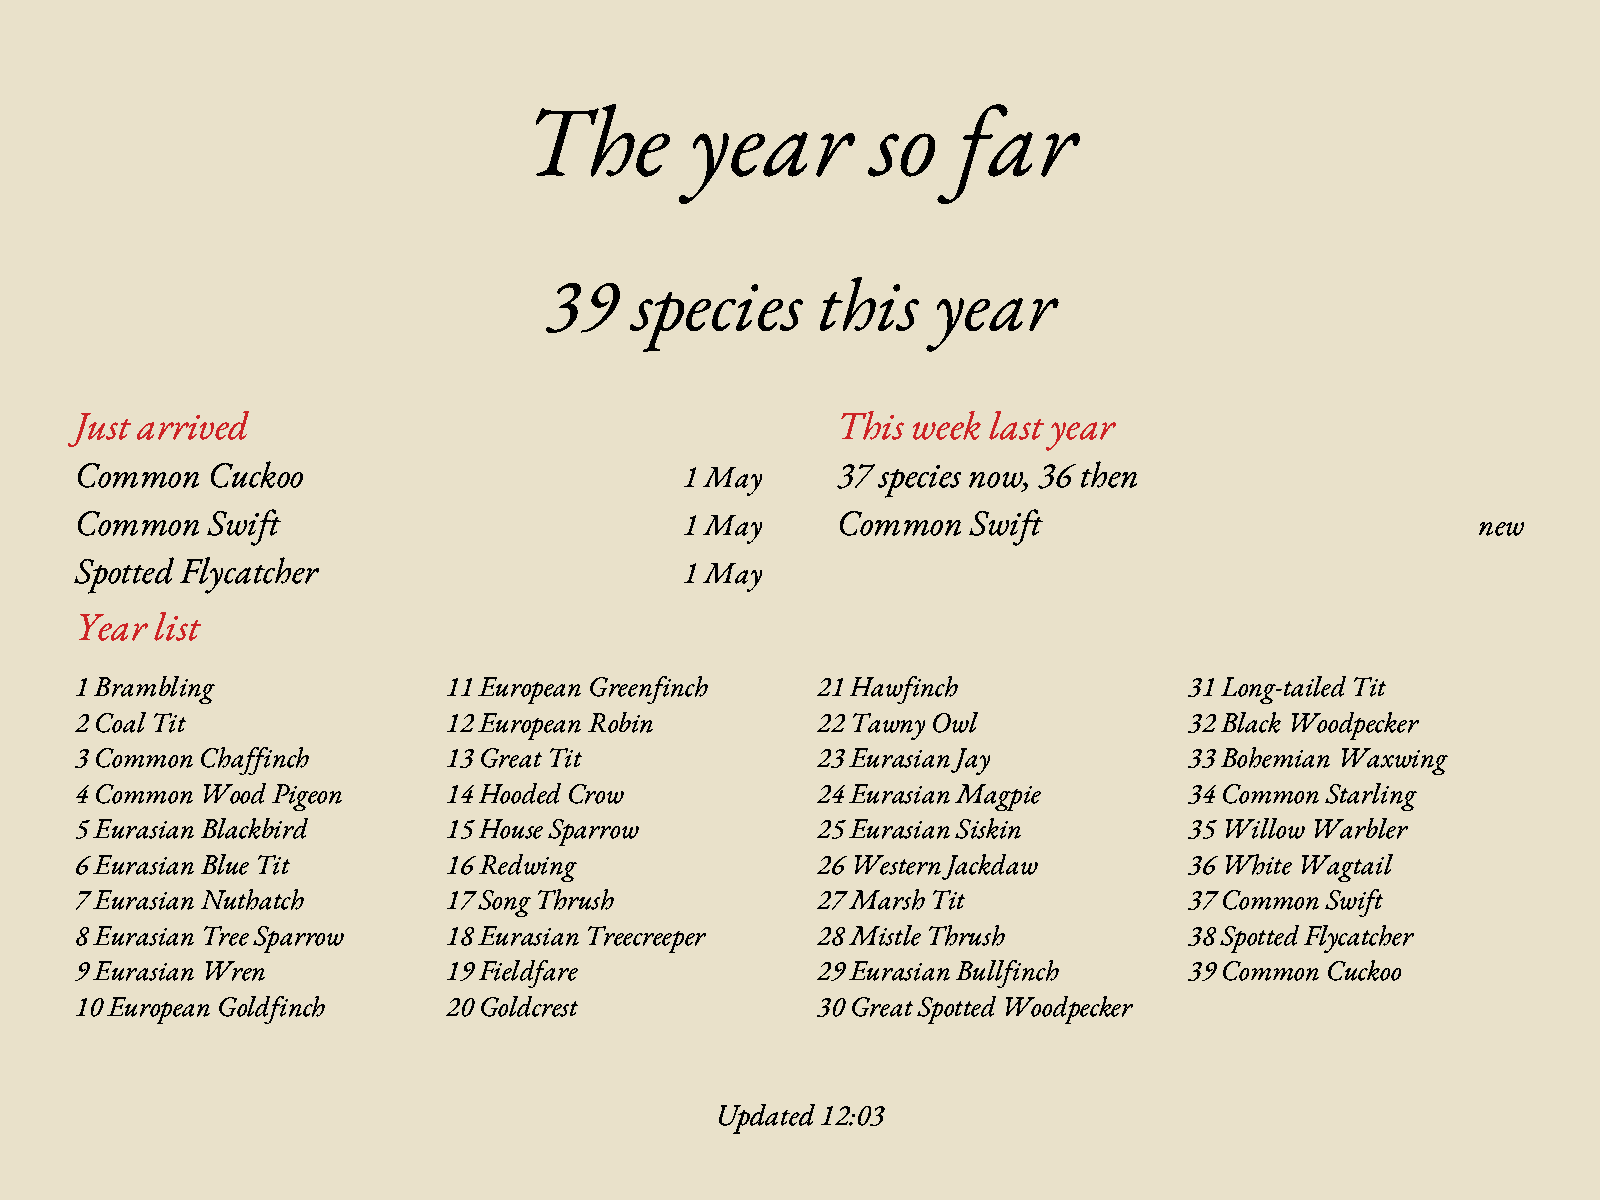
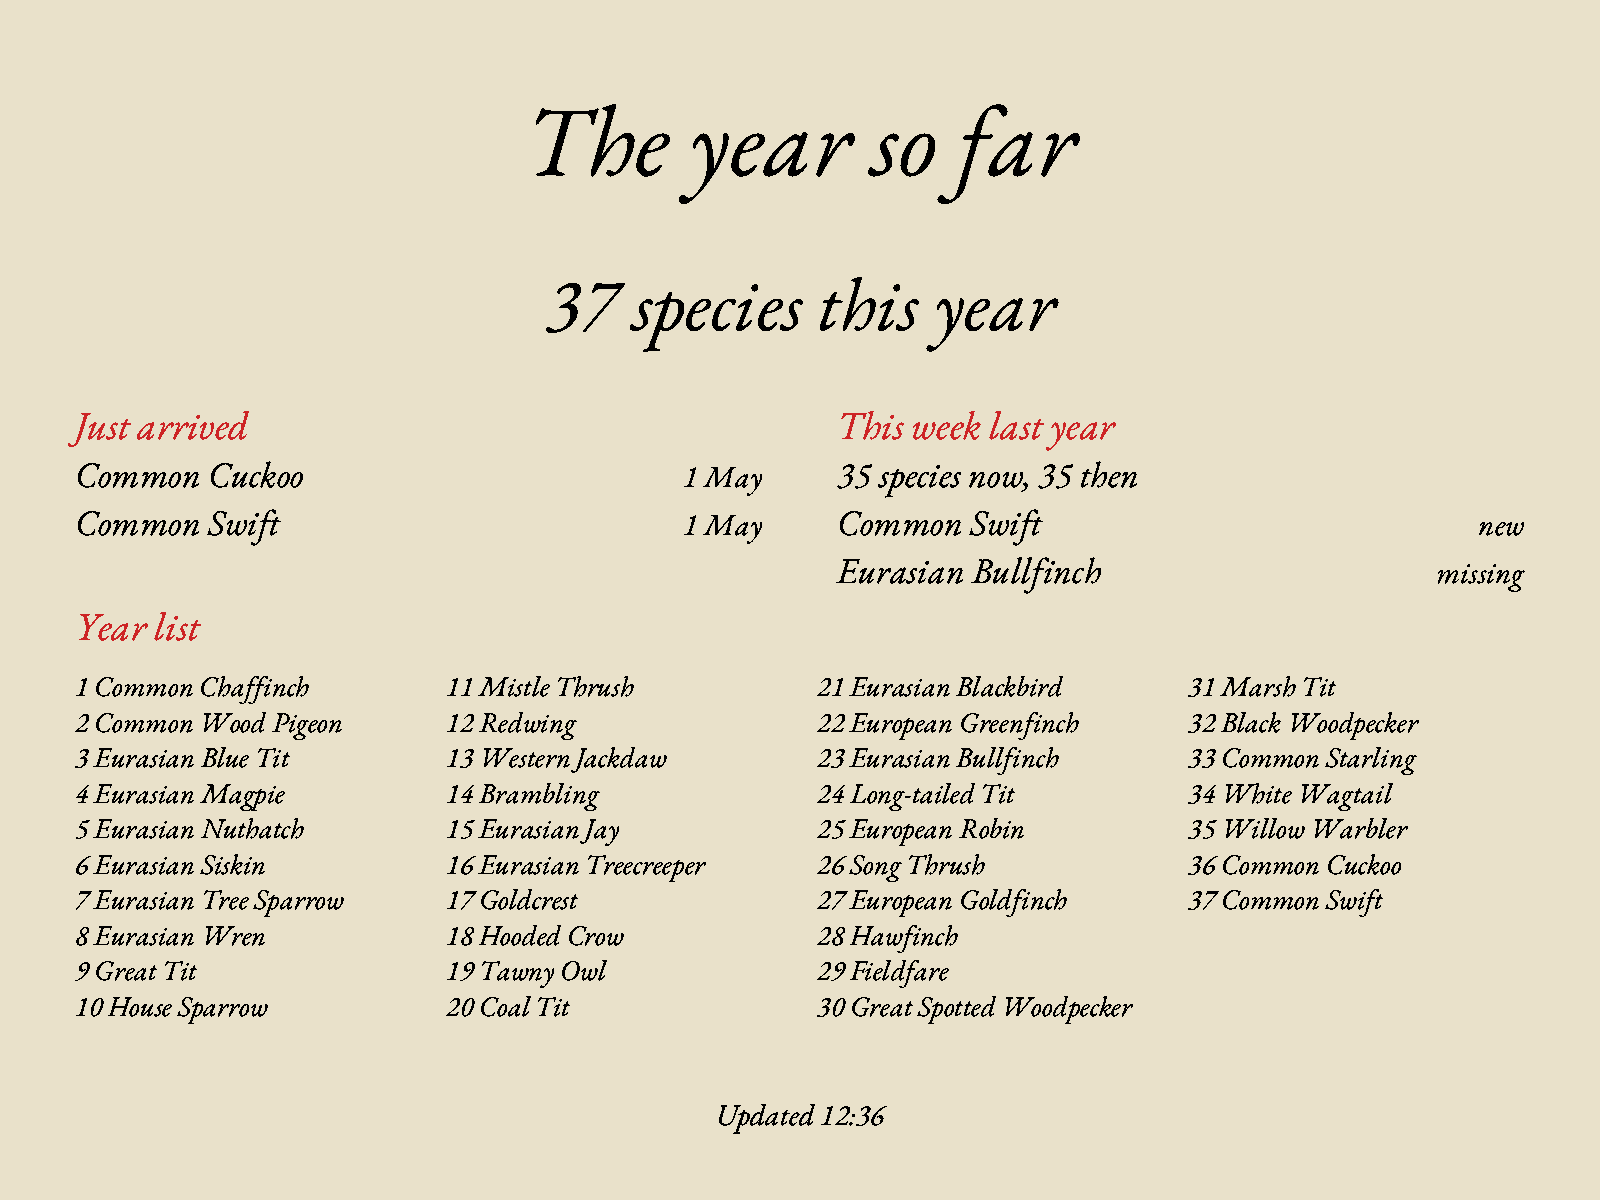
Engrave the story chart like the plates, and redraw the docs' pages
The day's chart drops the dashboard look: hairline rules and a ruled left
margin, bars outlined and hatched with upright lines like an engraver's
shading (closest for the whole chorus, red only for a bird new for the
year), dotted sunrise and sunset lines, and small ticks under the hours.
Every page in docs/images is drawn again with fugleramme's classic
plates; the generated-bird collage is gone.

Claude-Session: https://claude.ai/code/session_01JrPyactsUqTx6YH7aVCGwN

diff --git a/crates/frame-layout/src/story_page.rs b/crates/frame-layout/src/story_page.rs
@@ -23,8 +23,10 @@ pub struct ChorusRow {
     pub label: String,
     /// Detections in each local hour, index 0 for midnight to one.
     pub hours: [u32; 24],
-    /// The ink the row's bars are drawn in.
+    /// The ink the row's bars are engraved in.
     pub ink: Ink,
+    /// Whether the bars are hatched close, darker, as for the whole chorus.
+    pub heavy: bool,
 }
 
 /// A moment marked across the chart, such as sunrise.
@@ -147,7 +149,16 @@ fn push_chart(page: &mut PageLayout, body: &Body, options: &StoryOptions) {
     let chart_width: i32 = body.width - body.margin - chart_left;
     let column: f32 = chart_width as f32 / hours as f32;
     let bar: i32 = ((column * 0.72) as i32).max(2);
-    let rule: i32 = (row_height / 40).max(2);
+    // Hairlines, as an engraver's: thicker only on big pages, so they survive dithering.
+    let hair: i32 = ((body.heading_size / 45.0) as i32).max(1);
+    // The left edge of the chart, like the ruled margin of a table in an old natural history.
+    page.shapes.push(ShapeBlock {
+        x: chart_left - hair * 3,
+        y: chart_top,
+        width: hair,
+        height: rows * row_height,
+        ink: Ink::Black,
+    });
 
     for (index, row) in shown.iter().enumerate() {
         let index: i32 = i32::try_from(index).unwrap_or(0);
@@ -162,10 +173,10 @@ fn push_chart(page: &mut PageLayout, body: &Body, options: &StoryOptions) {
             style: TextStyle::Name,
         });
         page.shapes.push(ShapeBlock {
-            x: chart_left,
+            x: chart_left - hair * 3,
             y: baseline,
-            width: chart_width,
-            height: rule,
+            width: chart_width + hair * 3,
+            height: hair,
             ink: Ink::Black,
         });
         let loudest: u32 = row.hours.iter().copied().max().unwrap_or(0).max(1);
@@ -177,16 +188,17 @@ fn push_chart(page: &mut PageLayout, body: &Body, options: &StoryOptions) {
             let height: i32 = (i64::from(tallest) * i64::from(count) / i64::from(loudest))
                 .try_into()
                 .unwrap_or(tallest)
-                .max(rule * 2);
+                .max(hair * 3);
             let left: i32 =
                 chart_left + (offset as f32 * column + (column - bar as f32) / 2.0) as i32;
-            page.shapes.push(ShapeBlock {
+            let bar_box = ShapeBlock {
                 x: left,
                 y: baseline - height,
                 width: bar,
                 height,
                 ink: row.ink,
-            });
+            };
+            push_engraved(&mut page.shapes, bar_box, hair, row.heavy);
         }
     }
 
@@ -197,17 +209,18 @@ fn push_chart(page: &mut PageLayout, body: &Body, options: &StoryOptions) {
             continue;
         }
         let x: i32 = chart_left + (hour * column) as i32;
-        let dash: i32 = (row_height / 6).max(6);
+        // A dotted hairline, as engravers marked a reference line.
+        let dot: i32 = hair * 2;
         let mut y: i32 = chart_top;
         while y < chart_end {
             page.shapes.push(ShapeBlock {
-                x: x - rule / 2,
+                x: x - hair / 2,
                 y,
-                width: rule,
-                height: dash.min(chart_end - y),
-                ink: Ink::Blue,
+                width: hair,
+                height: dot.min(chart_end - y),
+                ink: Ink::Black,
             });
-            y += dash * 2;
+            y += dot * 3;
         }
         // Centred over its line, unless that would run off the page.
         let half: i32 =
@@ -240,6 +253,13 @@ fn push_chart(page: &mut PageLayout, body: &Body, options: &StoryOptions) {
     };
     for hour in (first_hour..=first_hour + hours).filter(|hour| hour % step == 0) {
         let offset: i32 = i32::try_from(hour - first_hour).unwrap_or(0);
+        page.shapes.push(ShapeBlock {
+            x: chart_left + (offset as f32 * column) as i32 - hair / 2,
+            y: chart_end,
+            width: hair,
+            height: hair * 4,
+            ink: Ink::Black,
+        });
         page.text.push(TextBlock {
             text: format!("{:02}", hour % 24),
             x: chart_left + (offset as f32 * column) as i32,
@@ -249,6 +269,32 @@ fn push_chart(page: &mut PageLayout, body: &Body, options: &StoryOptions) {
             align: Align::Centre,
             style: TextStyle::Footer,
         });
+    }
+}
+
+/// Adds a bar engraved in `bar.ink`: outlined in hairlines and hatched with upright lines, close
+/// when `heavy`, the way a plate's engraver shaded a block.
+fn push_engraved(shapes: &mut Vec<ShapeBlock>, bar: ShapeBlock, hair: i32, heavy: bool) {
+    if bar.width <= hair * 4 {
+        shapes.push(bar);
+        return;
+    }
+    for (x, width) in [(bar.x, hair), (bar.x + bar.width - hair, hair)] {
+        shapes.push(ShapeBlock { x, width, ..bar });
+    }
+    shapes.push(ShapeBlock {
+        height: hair,
+        ..bar
+    });
+    let step: i32 = if heavy { hair * 2 } else { hair * 3 };
+    let mut x: i32 = bar.x + step;
+    while x + hair < bar.x + bar.width - hair {
+        shapes.push(ShapeBlock {
+            x,
+            width: hair,
+            ..bar
+        });
+        x += step;
     }
 }
 
@@ -281,6 +327,7 @@ mod test {
             label: String::from(label),
             hours: counts,
             ink: Ink::Green,
+            heavy: false,
         }
     }
 
@@ -335,10 +382,11 @@ mod test {
         ];
         for resolution in [Resolution::new(1600, 1200), Resolution::new(480, 800)] {
             let page = StoryPage::layout(resolution, &options(rows.clone()));
+            // Each bar has one horizontal edge, its top; the hatching and sides are upright.
             let bars: usize = page
                 .shapes
                 .iter()
-                .filter(|shape| shape.ink == Ink::Green)
+                .filter(|shape| shape.ink == Ink::Green && shape.width > shape.height)
                 .count();
             assert_eq!(bars, 4);
             for shape in &page.shapes {

diff --git a/crates/frame-artist/src/day_facts.rs b/crates/frame-artist/src/day_facts.rs
@@ -121,7 +121,8 @@ impl DayFacts {
         rows.push(ChorusRow {
             label: words.whole_chorus.clone(),
             hours: self.story.chorus,
-            ink: Ink::Blue,
+            ink: Ink::Black,
+            heavy: true,
         });
         // Birds new for the year first, so a small page that cannot fit every row keeps them.
         let mut ordered: Vec<&SpeciesHours> = self.hours.iter().collect();
@@ -145,7 +146,9 @@ impl DayFacts {
             rows.push(ChorusRow {
                 label: named,
                 hours: counts.hours,
-                ink: if is_new { Ink::Red } else { Ink::Green },
+                // Black hatching like the rest of the page; red, the rubric, for a new bird.
+                ink: if is_new { Ink::Red } else { Ink::Black },
+                heavy: false,
             });
         }
         StoryOptions {

diff --git a/docs/explanation/pages-and-views.md b/docs/explanation/pages-and-views.md
@@ -38,10 +38,12 @@ turns up once in a while is, however common elsewhere.
 
 ## The day's story
 
-![The story page on the 13.3-inch panel: four lines, then a bar chart per bird by hour, with sunrise and sunset marked](../images/view-story.png)
+![The story page on the 13.3-inch panel: four lines, then an engraved bar chart per bird by hour, with sunrise and sunset marked by dotted lines](../images/view-story.png)
 
-Each row is one of the day's eight most heard birds, plus any new for the year (in red, first);
-the top row, in blue, is every bird together. Bars are scaled per row, so a quiet bird's
+The chart is drawn the way the plates were printed: hairline rules, bars outlined and hatched like
+an engraver's shading, dotted reference lines, and the italic serif of the rest of the page. Each
+row is one of the day's eight most heard birds, plus any new for the year (first, hatched in red,
+the rubric colour of old books); the top row, hatched closest, is every bird together. Bars are scaled per row, so a quiet bird's
 pattern shows as clearly as a loud one's: the chart is about *when*, not *how many*. The chart
 spans the hours anything sang, sunrise and sunset, and at least ten hours. Rows that do not fit at
 a legible size are left off from the bottom, so the 7.3-inch panel shows fewer:
@@ -56,7 +58,7 @@ out.
 
 ## The season
 
-![The season page: 39 species this year, three spring arrivals, this week against last year's, and the numbered year list](../images/view-season.png)
+![The season page: 37 species this year, two spring arrivals, this week against last year's, and the numbered year list](../images/view-season.png)
 
 - **Just arrived** lists the birds heard in the last 21 days that were not heard in the 60 days
   before: spring's migrants, autumn's winter thrushes, and rarities.
